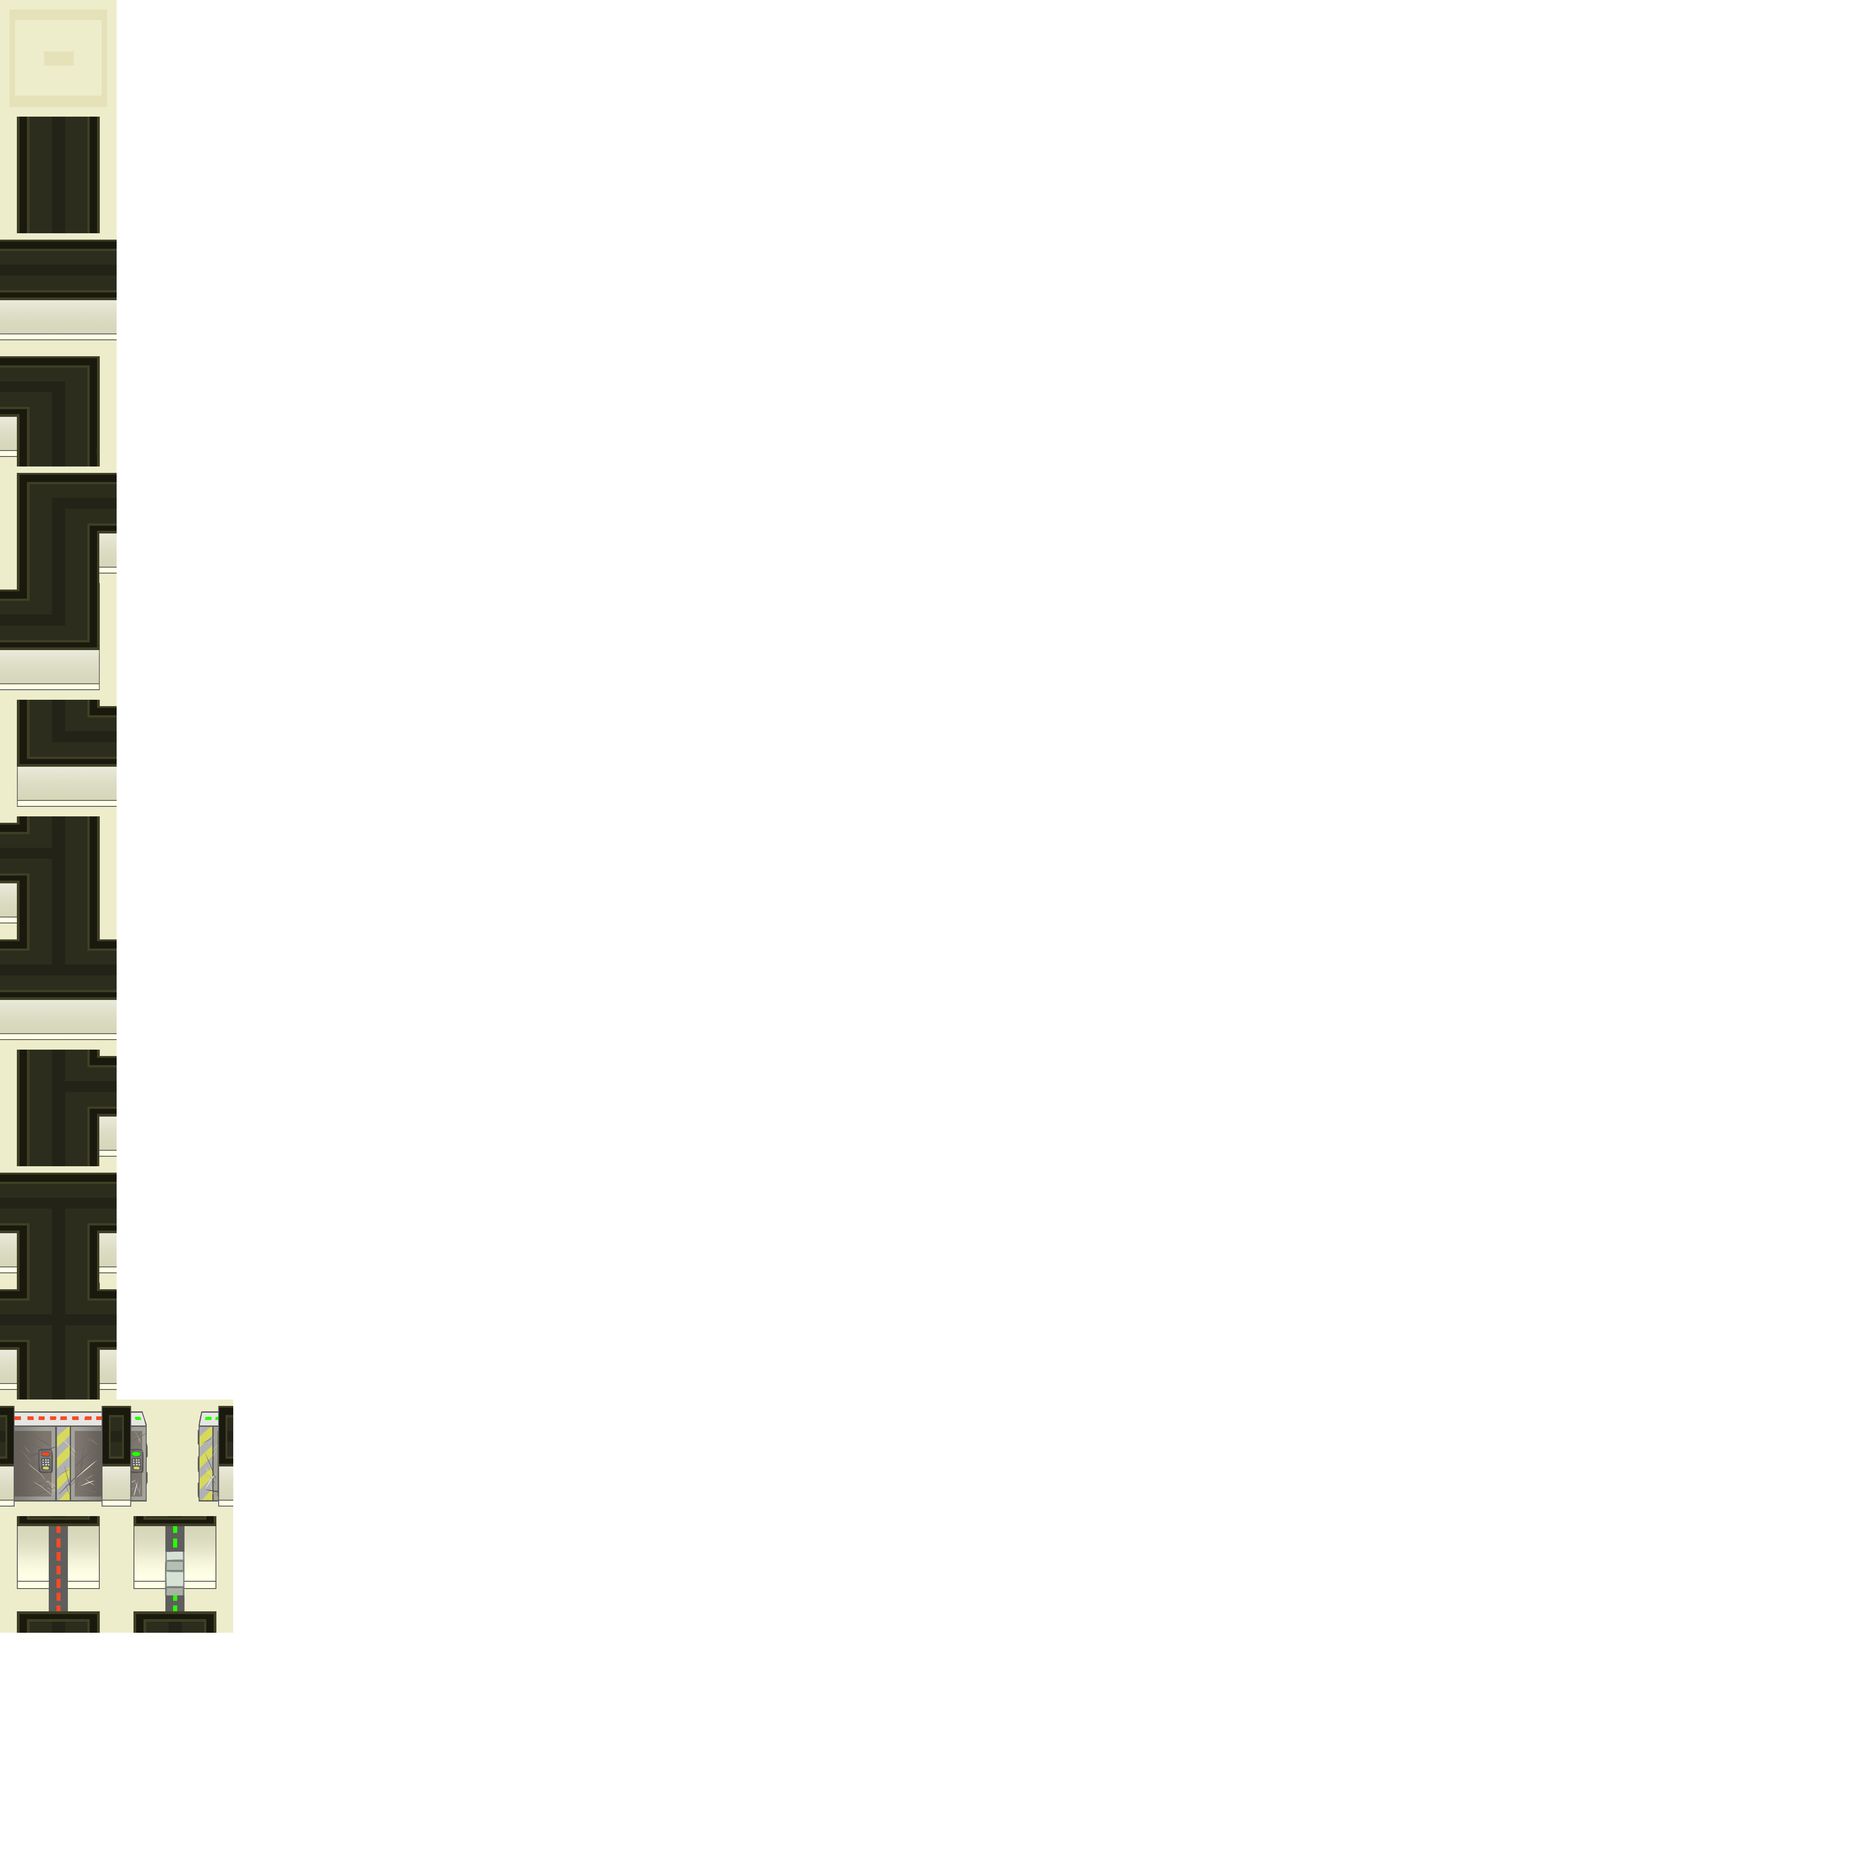
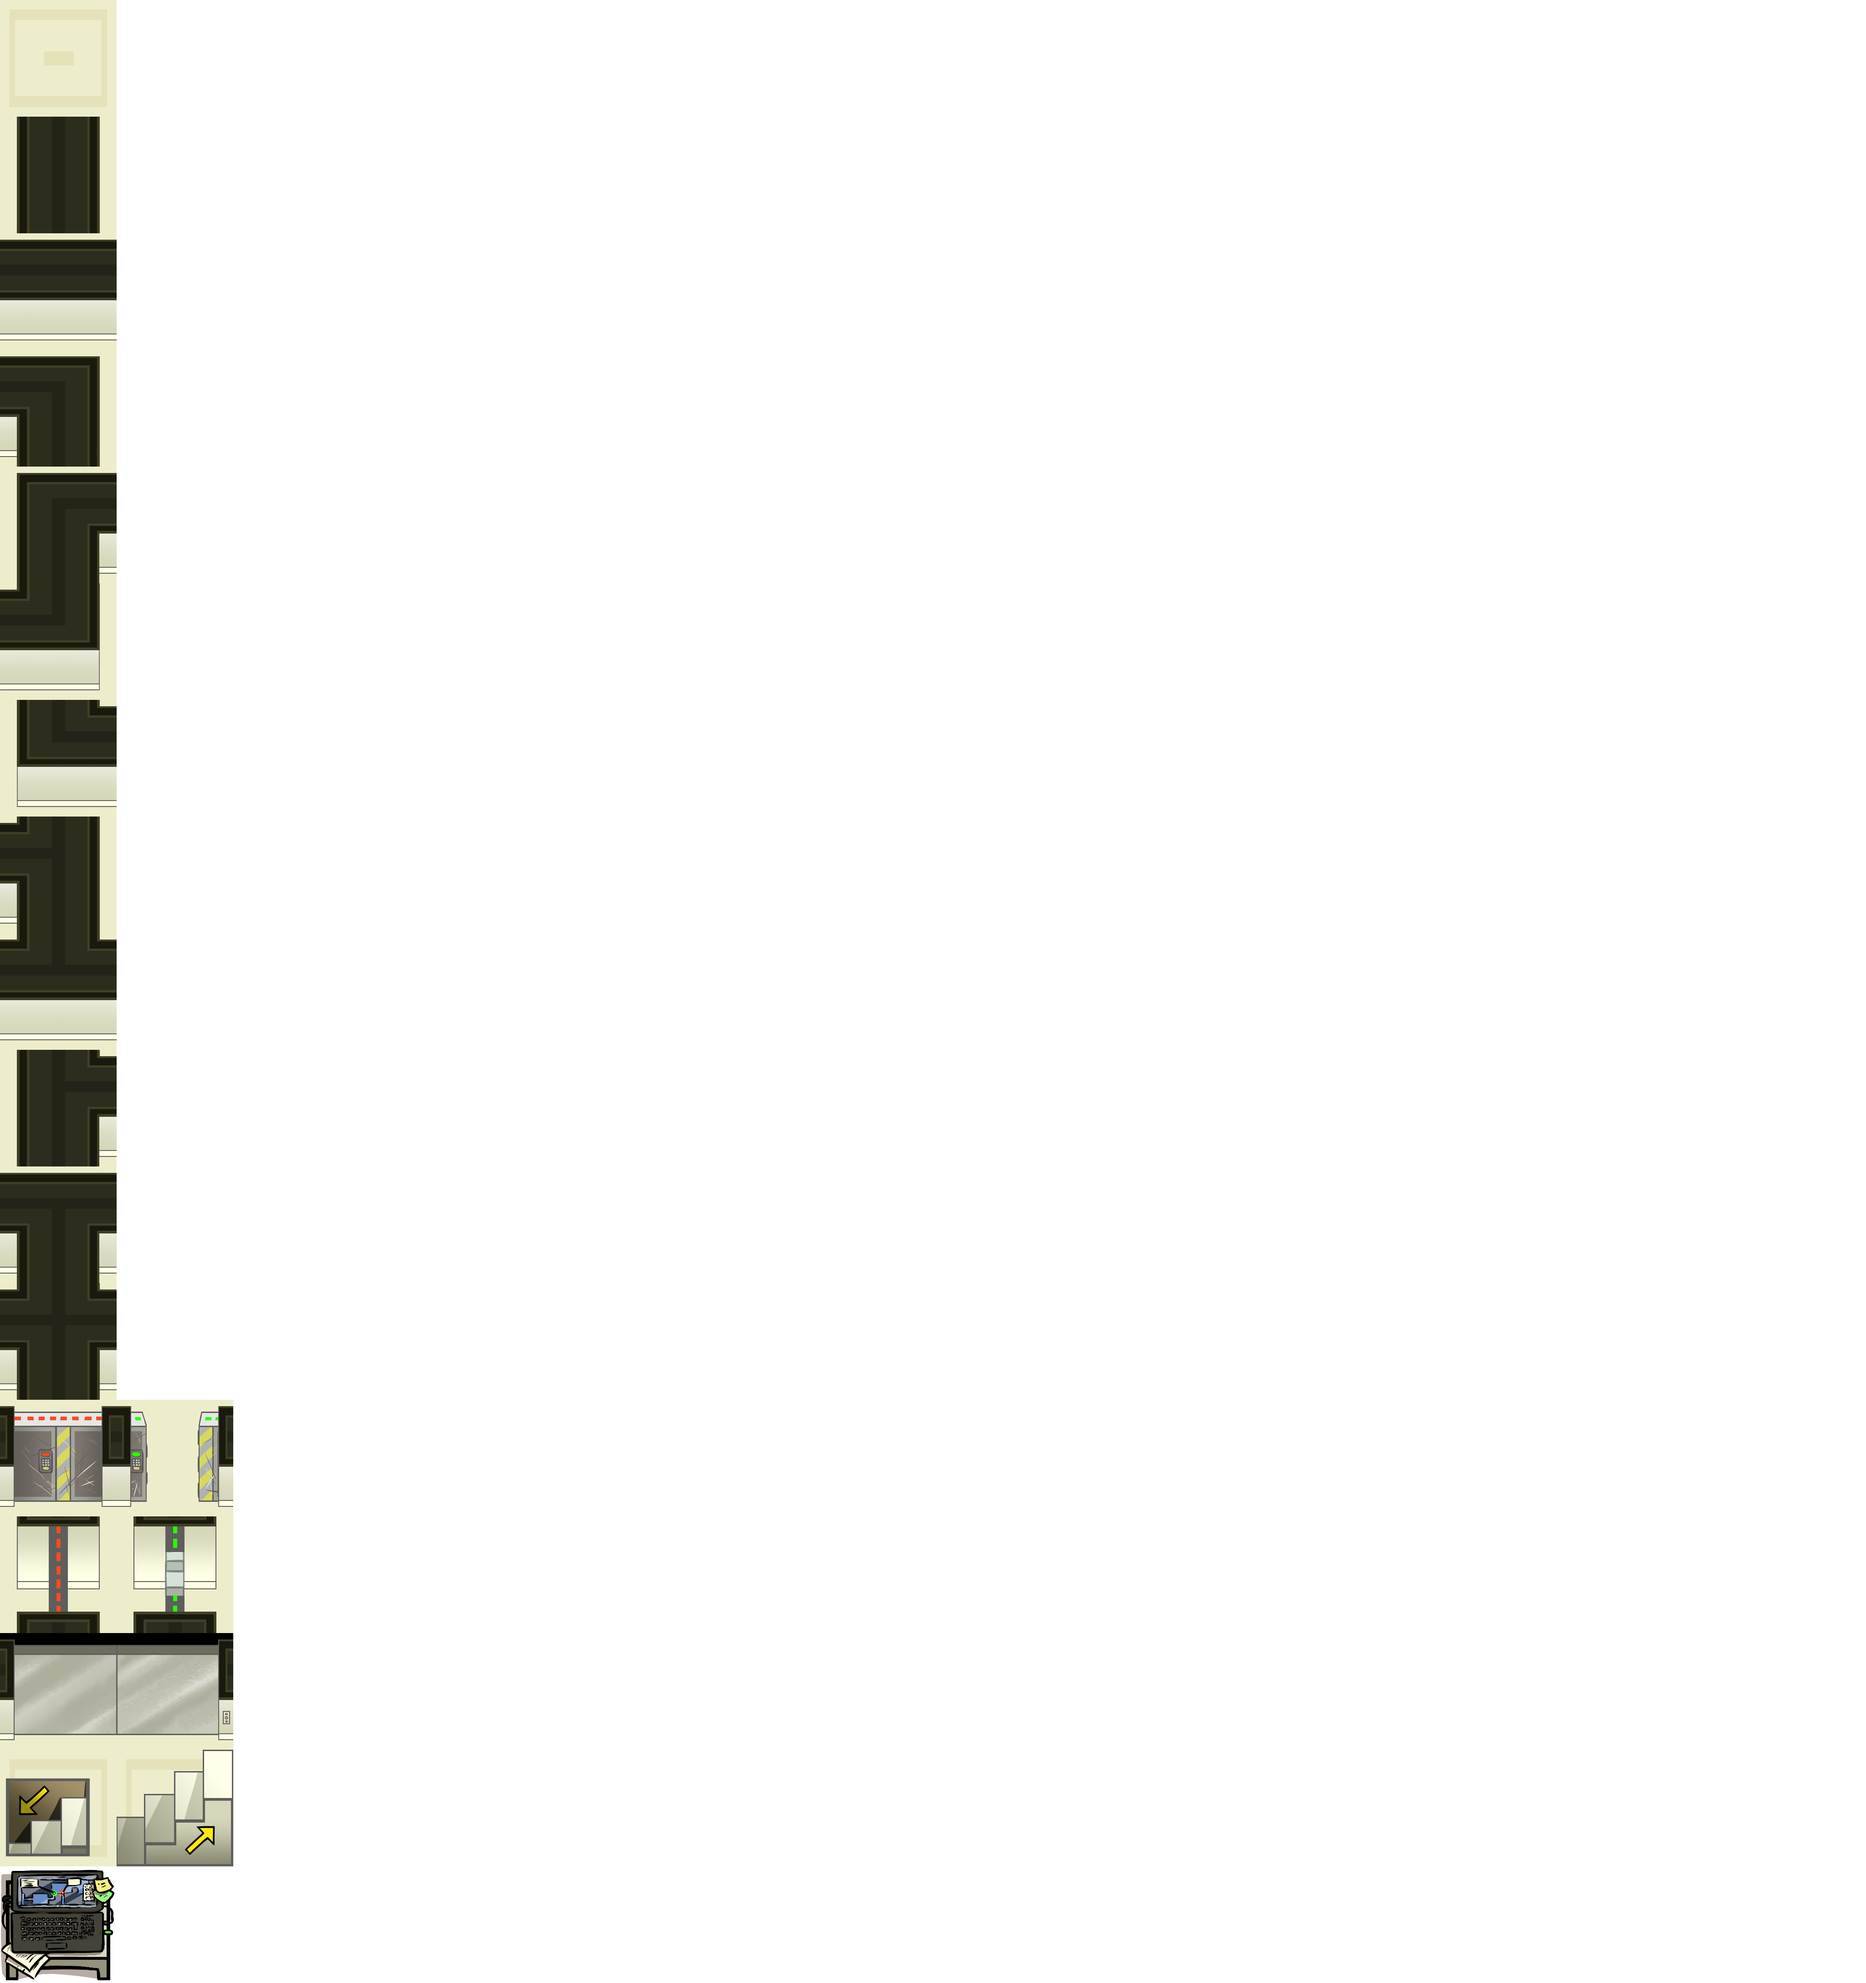
Add last asset

Changed region(s): [[0.0, 0.0938, 0.125, 1.0]]

diff --git a/code/bits/StartScene.cc b/code/bits/StartScene.cc
@@ -9,7 +9,7 @@ namespace rc {
 
   namespace {
 
-    constexpr gf::Vector2i LayerLayout = gf::vec(16, 16);
+    constexpr gf::Vector2i LayerLayout = gf::vec(16, 17);
 
     enum class TileType {
       Floor                 = 0,
@@ -28,6 +28,11 @@ namespace rc {
       DoorRowOpened         = LayerLayout.x * 12 + 1,
       DoorColumnClosed      = LayerLayout.x * 13 + 0,
       DoorColumnOpened      = LayerLayout.x * 13 + 1,
+      LiftLeft              = LayerLayout.x * 14 + 0,
+      LiftRight             = LayerLayout.x * 14 + 1,
+      StairsDown            = LayerLayout.x * 15 + 0,
+      StairsUp              = LayerLayout.x * 15 + 1,
+      Computer              = LayerLayout.x * 16 + 0,
     };
 
   }
@@ -224,6 +229,26 @@ namespace rc {
 
                 break;
               }
+
+              case MapCellType::LiftL:
+                tileLayer.setTile(cellPostion, tileSetId, static_cast<int>(TileType::LiftLeft));
+                break;
+
+              case MapCellType::LiftR:
+                tileLayer.setTile(cellPostion, tileSetId, static_cast<int>(TileType::LiftRight));
+                break;
+
+              case MapCellType::StairDown:
+                tileLayer.setTile(cellPostion, tileSetId, static_cast<int>(TileType::StairsDown));
+                break;
+
+              case MapCellType::StairUp:
+                tileLayer.setTile(cellPostion, tileSetId, static_cast<int>(TileType::StairsUp));
+                break;
+
+              case MapCellType::Computer:
+                tileLayer.setTile(cellPostion, tileSetId, static_cast<int>(TileType::Computer));
+                break;
 
               default:
                 break;

diff --git a/code/bits/MapEntity.cc b/code/bits/MapEntity.cc
@@ -35,35 +35,14 @@ namespace rc {
       const MapCell& cell = level(position);
 
       gf::Color4f color;
-      switch (cell.type) {
-      case MapCellType::StairDown:
-        color = gf::Color::Yellow;
-        break;
-
-      case MapCellType::StairUp:
-        color = gf::Color::Magenta;
-        break;
-
-      case MapCellType::Computer:
-        color = gf::Color::Cyan;
-        break;
-
-      default:
-        continue;
-      }
-
-#if 0
       if (!fov.isInFieldOfVision(position))
       {
         if (!fov.isExplored(position)) {
-          color = gf::Color::Black;
+          rectangles.addRectangle(position * CellSize, CellSize, gf::Color::Black);
         } else if (fov.isExplored(position)) {
-          color = gf::Color::darker(color, 0.7f);
+          rectangles.addRectangle(position * CellSize, CellSize, gf::Color::Black * gf::Color::Opaque(0.7f));
         }
       }
-#endif
-
-      rectangles.addRectangle(position * CellSize, CellSize, color);
     }
 
     target.draw(rectangles, states);

diff --git a/code/bits/MainScene.cc b/code/bits/MainScene.cc
@@ -9,6 +9,7 @@ namespace rc {
 
   constexpr float ViewSize = 1000.0f;
   // constexpr float ViewSize = 5000.0f;
+  constexpr int ViewRadius = 7;
 
   HeroActions::HeroActions()
   : up("Up")
@@ -190,7 +191,7 @@ namespace rc {
       gf::SquareMap& map = m_game.state.localPlayer(hero).map.levels[heroState.levelIndex].map;
 
       map.clearFieldOfVision();
-      map.computeFieldOfVision(heroState.position, 3);
+      map.computeFieldOfVision(heroState.position, ViewRadius);
     };
 
     updateFov(Hero::Lisa);
